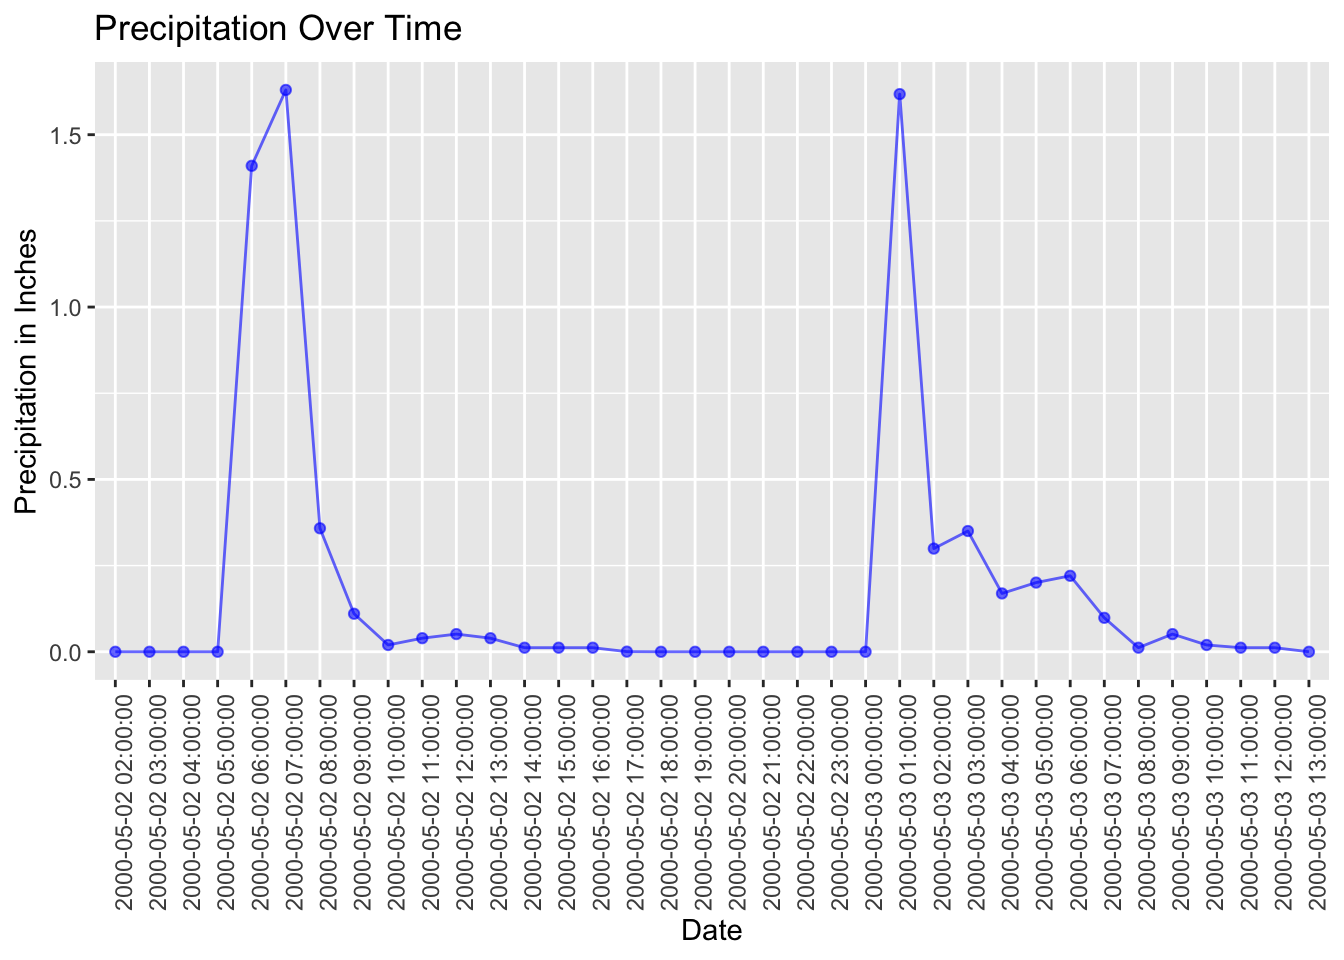
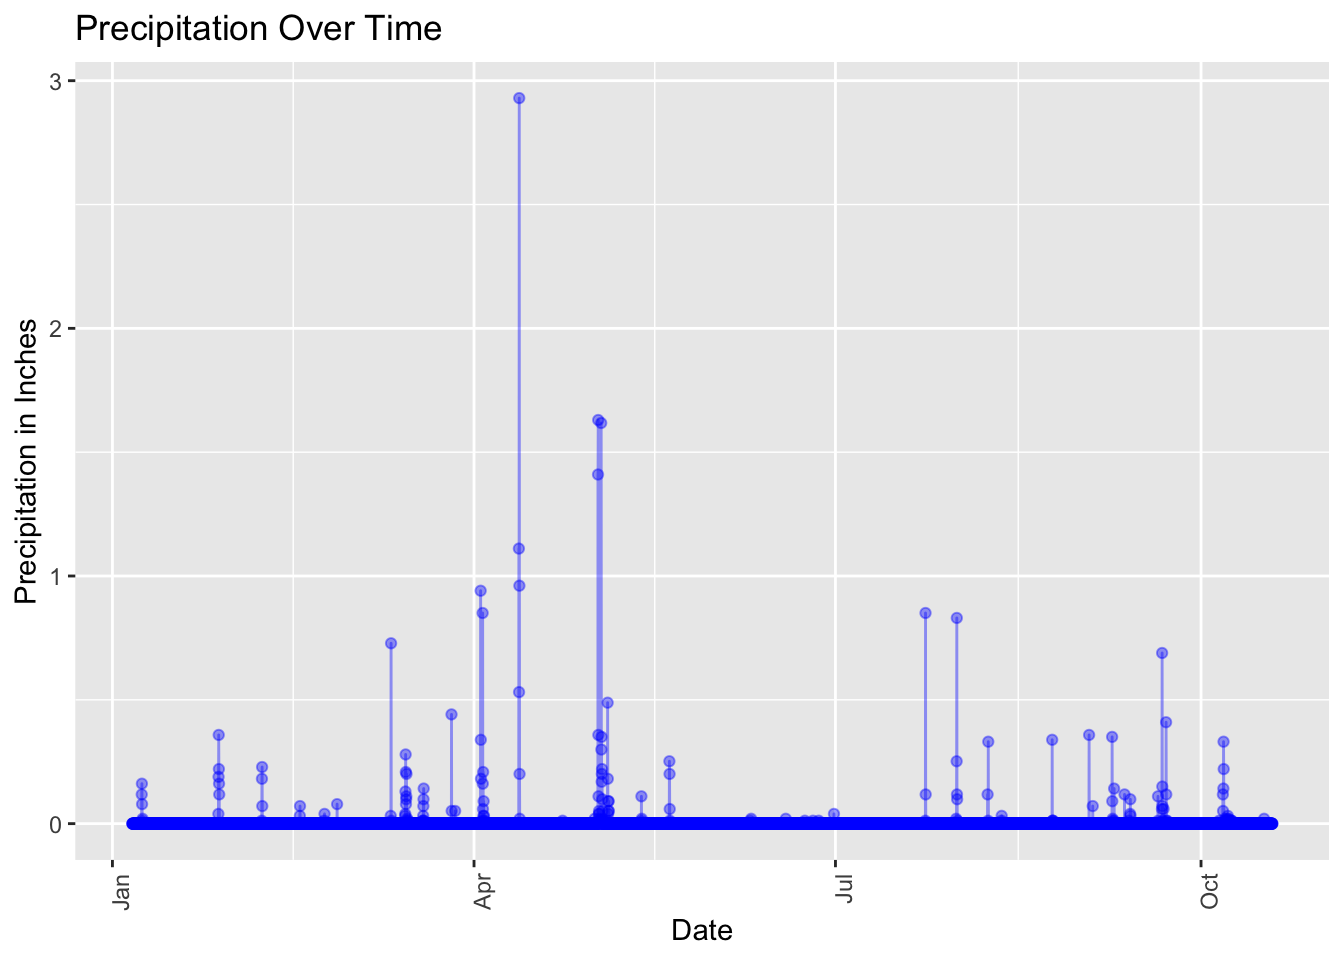
updated plot

diff --git a/post/weather/index.html b/post/weather/index.html
@@ -707,15 +707,19 @@ all_hours$time &lt;- as.POSIXct(all_hours$time, origin=&quot;1970-01-01&quot;)</
 <p>I selected the columns I want and saved them as weather.csv. Let’s zoom in to two rainy days in May 2000.</p>
 <pre class="r"><code>library(ggplot2)
 weather &lt;- read.csv(&quot;weather.csv&quot;)
-weather &lt;- weather[2810:2845,]
+#weather &lt;- weather[2810:2845,]
+
+#convert unix time to date
+weather$time &lt;- as.POSIXct(weather$time, origin=&quot;1970-01-01&quot;)
 
 ggplot(weather, aes(x = time, y = precipIntensity, group =1)) + 
-  geom_point(alpha = 0.6, color = &quot;blue&quot;) +
-  geom_line(alpha = 0.6, color = &quot;blue&quot;) +
+  geom_point(alpha = 0.4, color = &quot;blue&quot;) +
+  geom_line(alpha = 0.4, color = &quot;blue&quot;, size = 0.5) +
   theme_gray() +
   theme(axis.text.x=element_text(angle=90, hjust=1)) +
   labs(title =&quot;Precipitation Over Time&quot;, x = &quot;Date&quot;, y = &quot;Precipitation in Inches&quot;)</code></pre>
 <p><img src="/post/weather/index_files/figure-html/unnamed-chunk-3-1.png" width="672" /></p>
+<p>You can clearly see the precipitation generating storm events over a few months.</p>
 <p>It will take me a few days of using my 1000 free API calls to cover the period I’m interested in, but overall it was really easy.</p>
 <hr />
 </div>
